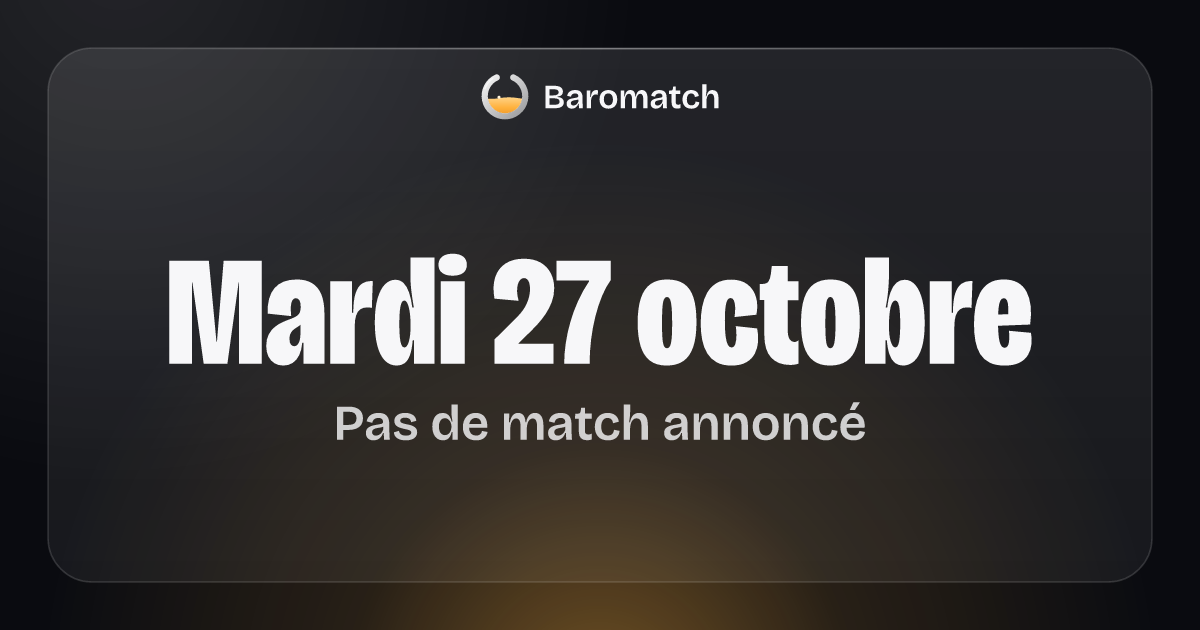
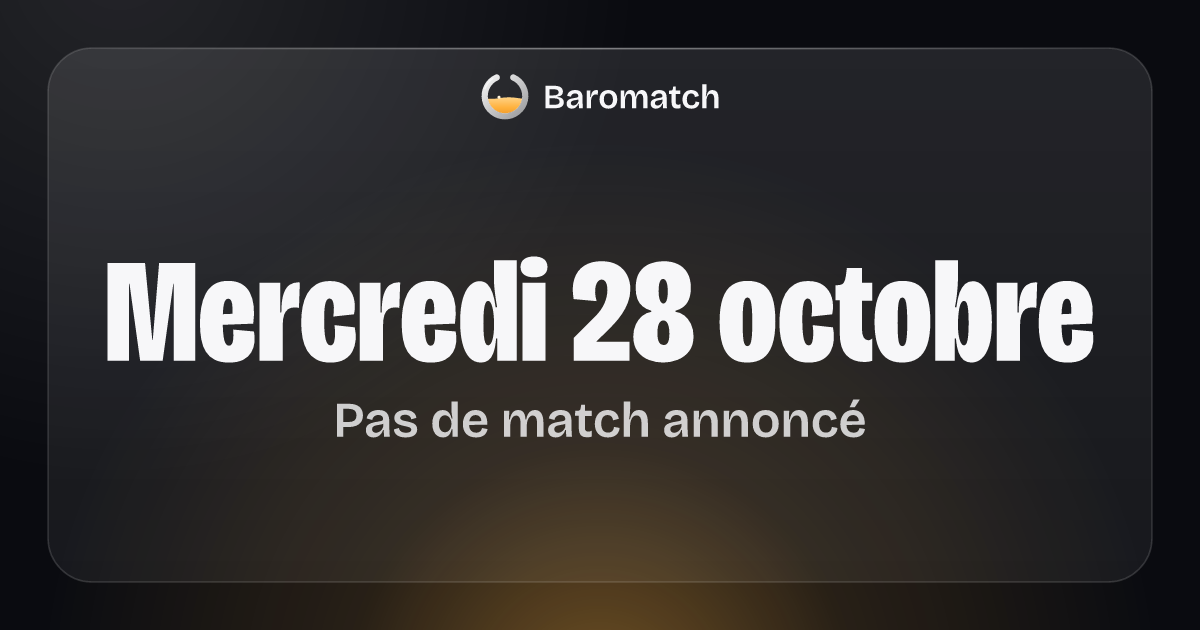
Pages des matchs : mise à jour du 28/10/2026 à 02:14

Changed region(s): [[0.0617, 0.3921, 0.925, 0.6032], [0.2775, 0.6333, 0.74, 0.7238]]

diff --git a/matchs/affiche/pour-le-patron/index.html b/matchs/affiche/pour-le-patron/index.html
@@ -86,7 +86,7 @@
       <p class="affiche-appel">Propose ton bar : scanne le code.</p>
       <p class="affiche-appel__suite">Ou écris à contact@baromatch.fr</p>
       <p class="affiche-laissee" aria-hidden="true">Laissée par :<span class="affiche-laissee__trait"></span></p>
-      <p class="affiche-prepare"><svg class="affiche-verre" viewBox="0 0 200 200" aria-hidden="true" focusable="false"><clipPath id="affiche-bol"><circle cx="100" cy="100" r="67"/></clipPath><g clip-path="url(#affiche-bol)"><path d="M-200 108 q35 -6 70 0 t70 0 t70 0 t70 0 t70 0 t70 0 t70 0 t70 0 V215 H-200 Z" fill="#FFB13D"/></g><path d="M68.3 28.7 A78 78 0 1 0 131.7 28.7" fill="none" stroke="#0A0B10" stroke-width="16" stroke-linecap="round"/></svg><span>Feuille préparée sur baromatch.fr, le mardi 27 octobre.</span></p>
+      <p class="affiche-prepare"><svg class="affiche-verre" viewBox="0 0 200 200" aria-hidden="true" focusable="false"><clipPath id="affiche-bol"><circle cx="100" cy="100" r="67"/></clipPath><g clip-path="url(#affiche-bol)"><path d="M-200 108 q35 -6 70 0 t70 0 t70 0 t70 0 t70 0 t70 0 t70 0 t70 0 V215 H-200 Z" fill="#FFB13D"/></g><path d="M68.3 28.7 A78 78 0 1 0 131.7 28.7" fill="none" stroke="#0A0B10" stroke-width="16" stroke-linecap="round"/></svg><span>Feuille préparée sur baromatch.fr, le mercredi 28 octobre.</span></p>
     </div>
     <figure class="affiche-qr">
       <svg class="affiche-qr__code" viewBox="0 0 41 41" role="img" aria-label="QR code vers la page des bars de baromatch.fr, au formulaire pour proposer un bar" shape-rendering="crispEdges"><rect width="41" height="41" fill="#FFFFFF"/><path d="M4 4h7v1h-7zM12 4h1v1h-1zM15 4h1v1h-1zM18 4h2v1h-2zM21 4h1v1h-1zM25 4h1v1h-1zM27 4h1v1h-1zM30 4h7v1h-7zM4 5h1v1h-1zM10 5h1v1h-1zM20 5h2v1h-2zM23 5h1v1h-1zM25 5h2v1h-2zM30 5h1v1h-1zM36 5h1v1h-1zM4 6h1v1h-1zM6 6h3v1h-3zM10 6h1v1h-1zM13 6h2v1h-2zM17 6h1v1h-1zM20 6h1v1h-1zM23 6h3v1h-3zM27 6h2v1h-2zM30 6h1v1h-1zM32 6h3v1h-3zM36 6h1v1h-1zM4 7h1v1h-1zM6 7h3v1h-3zM10 7h1v1h-1zM12 7h1v1h-1zM14 7h2v1h-2zM18 7h2v1h-2zM21 7h4v1h-4zM30 7h1v1h-1zM32 7h3v1h-3zM36 7h1v1h-1zM4 8h1v1h-1zM6 8h3v1h-3zM10 8h1v1h-1zM12 8h3v1h-3zM16 8h1v1h-1zM18 8h1v1h-1zM22 8h3v1h-3zM26 8h2v1h-2zM30 8h1v1h-1zM32 8h3v1h-3zM36 8h1v1h-1zM4 9h1v1h-1zM10 9h1v1h-1zM12 9h1v1h-1zM17 9h1v1h-1zM20 9h1v1h-1zM22 9h2v1h-2zM28 9h1v1h-1zM30 9h1v1h-1zM36 9h1v1h-1zM4 10h7v1h-7zM12 10h1v1h-1zM14 10h1v1h-1zM16 10h1v1h-1zM18 10h1v1h-1zM20 10h1v1h-1zM22 10h1v1h-1zM24 10h1v1h-1zM26 10h1v1h-1zM28 10h1v1h-1zM30 10h7v1h-7zM12 11h4v1h-4zM18 11h4v1h-4zM25 11h1v1h-1zM27 11h1v1h-1zM4 12h1v1h-1zM8 12h1v1h-1zM10 12h3v1h-3zM14 12h1v1h-1zM16 12h1v1h-1zM20 12h2v1h-2zM23 12h4v1h-4zM28 12h6v1h-6zM36 12h1v1h-1zM5 13h3v1h-3zM9 13h1v1h-1zM12 13h3v1h-3zM17 13h4v1h-4zM22 13h1v1h-1zM24 13h1v1h-1zM26 13h2v1h-2zM29 13h1v1h-1zM33 13h2v1h-2zM5 14h1v1h-1zM7 14h2v1h-2zM10 14h1v1h-1zM19 14h1v1h-1zM21 14h1v1h-1zM26 14h5v1h-5zM33 14h1v1h-1zM35 14h1v1h-1zM4 15h1v1h-1zM6 15h2v1h-2zM14 15h1v1h-1zM18 15h2v1h-2zM21 15h3v1h-3zM25 15h1v1h-1zM28 15h1v1h-1zM36 15h1v1h-1zM4 16h1v1h-1zM10 16h2v1h-2zM15 16h4v1h-4zM22 16h6v1h-6zM29 16h2v1h-2zM32 16h2v1h-2zM35 16h2v1h-2zM5 17h1v1h-1zM7 17h1v1h-1zM9 17h1v1h-1zM11 17h1v1h-1zM14 17h1v1h-1zM17 17h1v1h-1zM20 17h2v1h-2zM23 17h1v1h-1zM27 17h1v1h-1zM29 17h1v1h-1zM31 17h1v1h-1zM34 17h1v1h-1zM5 18h2v1h-2zM8 18h4v1h-4zM16 18h1v1h-1zM18 18h1v1h-1zM20 18h1v1h-1zM22 18h2v1h-2zM25 18h1v1h-1zM27 18h4v1h-4zM32 18h1v1h-1zM34 18h2v1h-2zM4 19h4v1h-4zM13 19h3v1h-3zM18 19h1v1h-1zM21 19h6v1h-6zM28 19h3v1h-3zM33 19h1v1h-1zM4 20h4v1h-4zM10 20h3v1h-3zM14 20h3v1h-3zM19 20h1v1h-1zM21 20h1v1h-1zM25 20h4v1h-4zM30 20h1v1h-1zM32 20h1v1h-1zM35 20h1v1h-1zM5 21h1v1h-1zM7 21h3v1h-3zM11 21h2v1h-2zM16 21h1v1h-1zM18 21h4v1h-4zM27 21h1v1h-1zM29 21h1v1h-1zM33 21h2v1h-2zM5 22h3v1h-3zM10 22h1v1h-1zM14 22h1v1h-1zM16 22h5v1h-5zM22 22h1v1h-1zM25 22h1v1h-1zM27 22h1v1h-1zM31 22h1v1h-1zM33 22h1v1h-1zM35 22h1v1h-1zM6 23h2v1h-2zM9 23h1v1h-1zM11 23h2v1h-2zM14 23h1v1h-1zM18 23h2v1h-2zM23 23h3v1h-3zM29 23h3v1h-3zM35 23h1v1h-1zM6 24h1v1h-1zM10 24h2v1h-2zM13 24h1v1h-1zM15 24h1v1h-1zM19 24h2v1h-2zM23 24h1v1h-1zM25 24h2v1h-2zM28 24h1v1h-1zM30 24h1v1h-1zM32 24h2v1h-2zM35 24h2v1h-2zM4 25h5v1h-5zM11 25h3v1h-3zM18 25h1v1h-1zM22 25h3v1h-3zM26 25h2v1h-2zM31 25h1v1h-1zM33 25h1v1h-1zM35 25h1v1h-1zM6 26h5v1h-5zM12 26h1v1h-1zM14 26h2v1h-2zM19 26h1v1h-1zM21 26h2v1h-2zM24 26h1v1h-1zM26 26h2v1h-2zM31 26h5v1h-5zM8 27h2v1h-2zM12 27h1v1h-1zM18 27h5v1h-5zM25 27h1v1h-1zM30 27h1v1h-1zM32 27h1v1h-1zM4 28h5v1h-5zM10 28h1v1h-1zM14 28h1v1h-1zM16 28h2v1h-2zM21 28h1v1h-1zM23 28h4v1h-4zM28 28h5v1h-5zM35 28h2v1h-2zM12 29h3v1h-3zM16 29h1v1h-1zM18 29h3v1h-3zM27 29h2v1h-2zM32 29h1v1h-1zM34 29h2v1h-2zM4 30h7v1h-7zM12 30h1v1h-1zM15 30h2v1h-2zM19 30h1v1h-1zM21 30h1v1h-1zM26 30h1v1h-1zM28 30h1v1h-1zM30 30h1v1h-1zM32 30h2v1h-2zM35 30h1v1h-1zM4 31h1v1h-1zM10 31h1v1h-1zM16 31h4v1h-4zM21 31h6v1h-6zM28 31h1v1h-1zM32 31h1v1h-1zM36 31h1v1h-1zM4 32h1v1h-1zM6 32h3v1h-3zM10 32h1v1h-1zM12 32h3v1h-3zM17 32h1v1h-1zM19 32h1v1h-1zM22 32h1v1h-1zM24 32h1v1h-1zM28 32h6v1h-6zM35 32h2v1h-2zM4 33h1v1h-1zM6 33h3v1h-3zM10 33h1v1h-1zM14 33h3v1h-3zM20 33h1v1h-1zM23 33h1v1h-1zM25 33h1v1h-1zM27 33h2v1h-2zM30 33h3v1h-3zM4 34h1v1h-1zM6 34h3v1h-3zM10 34h1v1h-1zM13 34h4v1h-4zM20 34h1v1h-1zM23 34h1v1h-1zM25 34h3v1h-3zM30 34h4v1h-4zM4 35h1v1h-1zM10 35h1v1h-1zM14 35h5v1h-5zM21 35h1v1h-1zM23 35h4v1h-4zM28 35h1v1h-1zM4 36h7v1h-7zM12 36h1v1h-1zM14 36h1v1h-1zM16 36h1v1h-1zM18 36h2v1h-2zM21 36h2v1h-2zM24 36h2v1h-2zM27 36h4v1h-4zM33 36h1v1h-1zM36 36h1v1h-1z" fill="#000000"/></svg>
@@ -111,7 +111,7 @@
       <p class="affiche-appel">Propose ton bar : scanne le code.</p>
       <p class="affiche-appel__suite">Ou écris à contact@baromatch.fr</p>
       <p class="affiche-laissee" aria-hidden="true">Laissée par :<span class="affiche-laissee__trait"></span></p>
-      <p class="affiche-prepare"><svg class="affiche-verre" viewBox="0 0 200 200" aria-hidden="true" focusable="false"><clipPath id="affiche-bol-copie"><circle cx="100" cy="100" r="67"/></clipPath><g clip-path="url(#affiche-bol-copie)"><path d="M-200 108 q35 -6 70 0 t70 0 t70 0 t70 0 t70 0 t70 0 t70 0 t70 0 V215 H-200 Z" fill="#FFB13D"/></g><path d="M68.3 28.7 A78 78 0 1 0 131.7 28.7" fill="none" stroke="#0A0B10" stroke-width="16" stroke-linecap="round"/></svg><span>Feuille préparée sur baromatch.fr, le mardi 27 octobre.</span></p>
+      <p class="affiche-prepare"><svg class="affiche-verre" viewBox="0 0 200 200" aria-hidden="true" focusable="false"><clipPath id="affiche-bol-copie"><circle cx="100" cy="100" r="67"/></clipPath><g clip-path="url(#affiche-bol-copie)"><path d="M-200 108 q35 -6 70 0 t70 0 t70 0 t70 0 t70 0 t70 0 t70 0 t70 0 V215 H-200 Z" fill="#FFB13D"/></g><path d="M68.3 28.7 A78 78 0 1 0 131.7 28.7" fill="none" stroke="#0A0B10" stroke-width="16" stroke-linecap="round"/></svg><span>Feuille préparée sur baromatch.fr, le mercredi 28 octobre.</span></p>
     </div>
     <figure class="affiche-qr">
       <svg class="affiche-qr__code" viewBox="0 0 41 41" role="img" aria-label="QR code vers la page des bars de baromatch.fr, au formulaire pour proposer un bar" shape-rendering="crispEdges"><rect width="41" height="41" fill="#FFFFFF"/><path d="M4 4h7v1h-7zM12 4h1v1h-1zM15 4h1v1h-1zM18 4h2v1h-2zM21 4h1v1h-1zM25 4h1v1h-1zM27 4h1v1h-1zM30 4h7v1h-7zM4 5h1v1h-1zM10 5h1v1h-1zM20 5h2v1h-2zM23 5h1v1h-1zM25 5h2v1h-2zM30 5h1v1h-1zM36 5h1v1h-1zM4 6h1v1h-1zM6 6h3v1h-3zM10 6h1v1h-1zM13 6h2v1h-2zM17 6h1v1h-1zM20 6h1v1h-1zM23 6h3v1h-3zM27 6h2v1h-2zM30 6h1v1h-1zM32 6h3v1h-3zM36 6h1v1h-1zM4 7h1v1h-1zM6 7h3v1h-3zM10 7h1v1h-1zM12 7h1v1h-1zM14 7h2v1h-2zM18 7h2v1h-2zM21 7h4v1h-4zM30 7h1v1h-1zM32 7h3v1h-3zM36 7h1v1h-1zM4 8h1v1h-1zM6 8h3v1h-3zM10 8h1v1h-1zM12 8h3v1h-3zM16 8h1v1h-1zM18 8h1v1h-1zM22 8h3v1h-3zM26 8h2v1h-2zM30 8h1v1h-1zM32 8h3v1h-3zM36 8h1v1h-1zM4 9h1v1h-1zM10 9h1v1h-1zM12 9h1v1h-1zM17 9h1v1h-1zM20 9h1v1h-1zM22 9h2v1h-2zM28 9h1v1h-1zM30 9h1v1h-1zM36 9h1v1h-1zM4 10h7v1h-7zM12 10h1v1h-1zM14 10h1v1h-1zM16 10h1v1h-1zM18 10h1v1h-1zM20 10h1v1h-1zM22 10h1v1h-1zM24 10h1v1h-1zM26 10h1v1h-1zM28 10h1v1h-1zM30 10h7v1h-7zM12 11h4v1h-4zM18 11h4v1h-4zM25 11h1v1h-1zM27 11h1v1h-1zM4 12h1v1h-1zM8 12h1v1h-1zM10 12h3v1h-3zM14 12h1v1h-1zM16 12h1v1h-1zM20 12h2v1h-2zM23 12h4v1h-4zM28 12h6v1h-6zM36 12h1v1h-1zM5 13h3v1h-3zM9 13h1v1h-1zM12 13h3v1h-3zM17 13h4v1h-4zM22 13h1v1h-1zM24 13h1v1h-1zM26 13h2v1h-2zM29 13h1v1h-1zM33 13h2v1h-2zM5 14h1v1h-1zM7 14h2v1h-2zM10 14h1v1h-1zM19 14h1v1h-1zM21 14h1v1h-1zM26 14h5v1h-5zM33 14h1v1h-1zM35 14h1v1h-1zM4 15h1v1h-1zM6 15h2v1h-2zM14 15h1v1h-1zM18 15h2v1h-2zM21 15h3v1h-3zM25 15h1v1h-1zM28 15h1v1h-1zM36 15h1v1h-1zM4 16h1v1h-1zM10 16h2v1h-2zM15 16h4v1h-4zM22 16h6v1h-6zM29 16h2v1h-2zM32 16h2v1h-2zM35 16h2v1h-2zM5 17h1v1h-1zM7 17h1v1h-1zM9 17h1v1h-1zM11 17h1v1h-1zM14 17h1v1h-1zM17 17h1v1h-1zM20 17h2v1h-2zM23 17h1v1h-1zM27 17h1v1h-1zM29 17h1v1h-1zM31 17h1v1h-1zM34 17h1v1h-1zM5 18h2v1h-2zM8 18h4v1h-4zM16 18h1v1h-1zM18 18h1v1h-1zM20 18h1v1h-1zM22 18h2v1h-2zM25 18h1v1h-1zM27 18h4v1h-4zM32 18h1v1h-1zM34 18h2v1h-2zM4 19h4v1h-4zM13 19h3v1h-3zM18 19h1v1h-1zM21 19h6v1h-6zM28 19h3v1h-3zM33 19h1v1h-1zM4 20h4v1h-4zM10 20h3v1h-3zM14 20h3v1h-3zM19 20h1v1h-1zM21 20h1v1h-1zM25 20h4v1h-4zM30 20h1v1h-1zM32 20h1v1h-1zM35 20h1v1h-1zM5 21h1v1h-1zM7 21h3v1h-3zM11 21h2v1h-2zM16 21h1v1h-1zM18 21h4v1h-4zM27 21h1v1h-1zM29 21h1v1h-1zM33 21h2v1h-2zM5 22h3v1h-3zM10 22h1v1h-1zM14 22h1v1h-1zM16 22h5v1h-5zM22 22h1v1h-1zM25 22h1v1h-1zM27 22h1v1h-1zM31 22h1v1h-1zM33 22h1v1h-1zM35 22h1v1h-1zM6 23h2v1h-2zM9 23h1v1h-1zM11 23h2v1h-2zM14 23h1v1h-1zM18 23h2v1h-2zM23 23h3v1h-3zM29 23h3v1h-3zM35 23h1v1h-1zM6 24h1v1h-1zM10 24h2v1h-2zM13 24h1v1h-1zM15 24h1v1h-1zM19 24h2v1h-2zM23 24h1v1h-1zM25 24h2v1h-2zM28 24h1v1h-1zM30 24h1v1h-1zM32 24h2v1h-2zM35 24h2v1h-2zM4 25h5v1h-5zM11 25h3v1h-3zM18 25h1v1h-1zM22 25h3v1h-3zM26 25h2v1h-2zM31 25h1v1h-1zM33 25h1v1h-1zM35 25h1v1h-1zM6 26h5v1h-5zM12 26h1v1h-1zM14 26h2v1h-2zM19 26h1v1h-1zM21 26h2v1h-2zM24 26h1v1h-1zM26 26h2v1h-2zM31 26h5v1h-5zM8 27h2v1h-2zM12 27h1v1h-1zM18 27h5v1h-5zM25 27h1v1h-1zM30 27h1v1h-1zM32 27h1v1h-1zM4 28h5v1h-5zM10 28h1v1h-1zM14 28h1v1h-1zM16 28h2v1h-2zM21 28h1v1h-1zM23 28h4v1h-4zM28 28h5v1h-5zM35 28h2v1h-2zM12 29h3v1h-3zM16 29h1v1h-1zM18 29h3v1h-3zM27 29h2v1h-2zM32 29h1v1h-1zM34 29h2v1h-2zM4 30h7v1h-7zM12 30h1v1h-1zM15 30h2v1h-2zM19 30h1v1h-1zM21 30h1v1h-1zM26 30h1v1h-1zM28 30h1v1h-1zM30 30h1v1h-1zM32 30h2v1h-2zM35 30h1v1h-1zM4 31h1v1h-1zM10 31h1v1h-1zM16 31h4v1h-4zM21 31h6v1h-6zM28 31h1v1h-1zM32 31h1v1h-1zM36 31h1v1h-1zM4 32h1v1h-1zM6 32h3v1h-3zM10 32h1v1h-1zM12 32h3v1h-3zM17 32h1v1h-1zM19 32h1v1h-1zM22 32h1v1h-1zM24 32h1v1h-1zM28 32h6v1h-6zM35 32h2v1h-2zM4 33h1v1h-1zM6 33h3v1h-3zM10 33h1v1h-1zM14 33h3v1h-3zM20 33h1v1h-1zM23 33h1v1h-1zM25 33h1v1h-1zM27 33h2v1h-2zM30 33h3v1h-3zM4 34h1v1h-1zM6 34h3v1h-3zM10 34h1v1h-1zM13 34h4v1h-4zM20 34h1v1h-1zM23 34h1v1h-1zM25 34h3v1h-3zM30 34h4v1h-4zM4 35h1v1h-1zM10 35h1v1h-1zM14 35h5v1h-5zM21 35h1v1h-1zM23 35h4v1h-4zM28 35h1v1h-1zM4 36h7v1h-7zM12 36h1v1h-1zM14 36h1v1h-1zM16 36h1v1h-1zM18 36h2v1h-2zM21 36h2v1h-2zM24 36h2v1h-2zM27 36h4v1h-4zM33 36h1v1h-1zM36 36h1v1h-1z" fill="#000000"/></svg>

diff --git a/ce-soir/index.html b/ce-soir/index.html
@@ -6,8 +6,8 @@
 <!-- Page écrite par le générateur des pages des matchs (dossier generateur du dépôt), à chaque passage : une retouche
      à la main serait effacée au suivant. Aucun script écrit dans la page : seulement les fichiers du site. -->
 <meta http-equiv="Content-Security-Policy" content="default-src 'self'; script-src 'self'; style-src 'self'; img-src 'self' data:; font-src 'self'; connect-src 'self'; base-uri 'none'; object-src 'none'; form-action https://formspree.io">
-<title>Où regarder le match ce soir, mardi 27 octobre — Baromatch</title>
-<meta name="description" content="Mardi 27 octobre : pas de match annoncé ce soir. Les prochains, à l’heure de Paris, et les villes, sur Baromatch.">
+<title>Où regarder le match ce soir, mercredi 28 octobre</title>
+<meta name="description" content="Mercredi 28 octobre : pas de match annoncé ce soir. Les prochains, à l’heure de Paris, et les villes, sur Baromatch.">
 <meta name="robots" content="noindex">
 <link rel="canonical" href="https://baromatch.fr/ce-soir/">
 <meta name="theme-color" content="#0A0B10">
@@ -20,18 +20,18 @@
 <meta property="og:type" content="website">
 <meta property="og:locale" content="fr_FR">
 <meta property="og:site_name" content="Baromatch">
-<meta property="og:title" content="Où regarder le match ce soir, mardi 27 octobre — Baromatch">
-<meta property="og:description" content="Mardi 27 octobre : pas de match annoncé ce soir. Les prochains, à l’heure de Paris, et les villes, sur Baromatch.">
+<meta property="og:title" content="Où regarder le match ce soir, mercredi 28 octobre">
+<meta property="og:description" content="Mercredi 28 octobre : pas de match annoncé ce soir. Les prochains, à l’heure de Paris, et les villes, sur Baromatch.">
 <meta property="og:url" content="https://baromatch.fr/ce-soir/">
-<meta property="og:image" content="https://baromatch.fr/ce-soir/partage.png?v=aM6gxo-dOn">
+<meta property="og:image" content="https://baromatch.fr/ce-soir/partage.png?v=FGZJ2M5diq">
 <meta property="og:image:width" content="1200">
 <meta property="og:image:height" content="630">
-<meta property="og:image:alt" content="Mardi 27 octobre. Pas de match annoncé.">
+<meta property="og:image:alt" content="Mercredi 28 octobre. Pas de match annoncé.">
 <meta name="twitter:card" content="summary_large_image">
 <meta name="twitter:site" content="@baromatchapp">
-<meta name="twitter:image" content="https://baromatch.fr/ce-soir/partage.png?v=aM6gxo-dOn">
+<meta name="twitter:image" content="https://baromatch.fr/ce-soir/partage.png?v=FGZJ2M5diq">
 <script src="/partage.js" defer></script>
-<script type="application/ld+json">{"@context":"https://schema.org","@graph":[{"@type":"CollectionPage","@id":"https://baromatch.fr/ce-soir/","url":"https://baromatch.fr/ce-soir/","name":"Où regarder le match ce soir, mardi 27 octobre — Baromatch","description":"Mardi 27 octobre : pas de match annoncé ce soir. Les prochains, à l’heure de Paris, et les villes, sur Baromatch.","inLanguage":"fr-FR","isPartOf":{"@id":"https://baromatch.fr/#site"},"publisher":{"@id":"https://baromatch.fr/#organisation"}},{"@type":"BreadcrumbList","itemListElement":[{"@type":"ListItem","position":1,"name":"Accueil","item":"https://baromatch.fr/"},{"@type":"ListItem","position":2,"name":"Ce soir","item":"https://baromatch.fr/ce-soir/"}]},{"@type":"ItemList","name":"Les prochains matchs","numberOfItems":8,"itemListElement":[{"@type":"ListItem","position":1,"name":"Fiorentina – Atalanta","url":"https://baromatch.fr/matchs/fiorentina-atalanta-2026-10-29/"},{"@type":"ListItem","position":2,"name":"Le Havre – PSG","url":"https://baromatch.fr/matchs/le-havre-psg-2026-10-30/"},{"@type":"ListItem","position":3,"name":"Lille – Lens","url":"https://baromatch.fr/matchs/lille-lens-2026-10-30/"},{"@type":"ListItem","position":4,"name":"Chelsea – Man United","url":"https://baromatch.fr/matchs/chelsea-man-united-2026-10-31/"},{"@type":"ListItem","position":5,"name":"Levante – Atlético","url":"https://baromatch.fr/matchs/levante-atletico-2026-10-31/"},{"@type":"ListItem","position":6,"name":"Leverkusen – Stuttgart","url":"https://baromatch.fr/matchs/leverkusen-stuttgart-2026-10-31/"},{"@type":"ListItem","position":7,"name":"Nice – Rennes","url":"https://baromatch.fr/matchs/nice-rennes-2026-10-31/"},{"@type":"ListItem","position":8,"name":"Bayern – Dortmund","url":"https://baromatch.fr/matchs/bayern-dortmund-2026-10-31/"}]}]}</script>
+<script type="application/ld+json">{"@context":"https://schema.org","@graph":[{"@type":"CollectionPage","@id":"https://baromatch.fr/ce-soir/","url":"https://baromatch.fr/ce-soir/","name":"Où regarder le match ce soir, mercredi 28 octobre","description":"Mercredi 28 octobre : pas de match annoncé ce soir. Les prochains, à l’heure de Paris, et les villes, sur Baromatch.","inLanguage":"fr-FR","isPartOf":{"@id":"https://baromatch.fr/#site"},"publisher":{"@id":"https://baromatch.fr/#organisation"}},{"@type":"BreadcrumbList","itemListElement":[{"@type":"ListItem","position":1,"name":"Accueil","item":"https://baromatch.fr/"},{"@type":"ListItem","position":2,"name":"Ce soir","item":"https://baromatch.fr/ce-soir/"}]},{"@type":"ItemList","name":"Les prochains matchs","numberOfItems":8,"itemListElement":[{"@type":"ListItem","position":1,"name":"Fiorentina – Atalanta","url":"https://baromatch.fr/matchs/fiorentina-atalanta-2026-10-29/"},{"@type":"ListItem","position":2,"name":"Le Havre – PSG","url":"https://baromatch.fr/matchs/le-havre-psg-2026-10-30/"},{"@type":"ListItem","position":3,"name":"Lille – Lens","url":"https://baromatch.fr/matchs/lille-lens-2026-10-30/"},{"@type":"ListItem","position":4,"name":"Chelsea – Man United","url":"https://baromatch.fr/matchs/chelsea-man-united-2026-10-31/"},{"@type":"ListItem","position":5,"name":"Levante – Atlético","url":"https://baromatch.fr/matchs/levante-atletico-2026-10-31/"},{"@type":"ListItem","position":6,"name":"Leverkusen – Stuttgart","url":"https://baromatch.fr/matchs/leverkusen-stuttgart-2026-10-31/"},{"@type":"ListItem","position":7,"name":"Nice – Rennes","url":"https://baromatch.fr/matchs/nice-rennes-2026-10-31/"},{"@type":"ListItem","position":8,"name":"Bayern – Dortmund","url":"https://baromatch.fr/matchs/bayern-dortmund-2026-10-31/"}]}]}</script>
 </head>
 <body>
 <a class="lien-evitement" href="#contenu">Aller au contenu</a>
@@ -49,12 +49,12 @@
 </nav>
 <header class="regarder-tete">
   <h1 class="regarder-titre">Où regarder le match ce soir</h1>
-  <p class="regarder-quand">Mardi 27 octobre</p>
+  <p class="regarder-quand">Mercredi 28 octobre</p>
   <p class="regarder-chapeau">Les matchs du jour, à l’heure de Paris. Dès qu’un bar annonce un de ces matchs sur Baromatch, il s’affiche ici.</p>
 </header>
-<div class="partage" role="group" aria-label="Partager la page" data-titre="Où regarder le match ce soir, mardi 27 octobre — Baromatch" data-adresse="https://baromatch.fr/ce-soir/" data-copie="Lien copié." data-echec="Copie impossible : appuie longtemps sur le lien pour le copier.">
+<div class="partage" role="group" aria-label="Partager la page" data-titre="Où regarder le match ce soir, mercredi 28 octobre" data-adresse="https://baromatch.fr/ce-soir/" data-copie="Lien copié." data-echec="Copie impossible : appuie longtemps sur le lien pour le copier.">
   <button class="partage__bouton partage__natif" type="button" hidden>Partager</button>
-  <a class="partage__bouton partage__whatsapp" href="https://wa.me/?text=O%C3%B9%20regarder%20le%20match%20ce%20soir%2C%20mardi%2027%20octobre%20%E2%80%94%20Baromatch%20https%3A%2F%2Fbaromatch.fr%2Fce-soir%2F" rel="noopener">Envoyer sur WhatsApp</a>
+  <a class="partage__bouton partage__whatsapp" href="https://wa.me/?text=O%C3%B9%20regarder%20le%20match%20ce%20soir%2C%20mercredi%2028%20octobre%20https%3A%2F%2Fbaromatch.fr%2Fce-soir%2F" rel="noopener">Envoyer sur WhatsApp</a>
   <button class="partage__bouton partage__copier" type="button" hidden>Copier le lien</button>
   <a class="partage__lien" href="https://baromatch.fr/ce-soir/">baromatch.fr/ce-soir/</a>
   <p class="partage__statut" role="status" aria-live="polite"></p>

diff --git a/matchs/affiche/index.html b/matchs/affiche/index.html
@@ -24,13 +24,13 @@
 <meta property="og:title" content="Affiche des matchs de foot de la semaine pour ton bar">
 <meta property="og:description" content="Les matchs des sept prochains jours, à l’heure de Paris : coche ceux que tu diffuses et imprime ton affiche en A4 ou en A3. Gratuit, sans compte.">
 <meta property="og:url" content="https://baromatch.fr/matchs/affiche/">
-<meta property="og:image" content="https://baromatch.fr/matchs/affiche/partage.png?v=apwqrIk-_R">
+<meta property="og:image" content="https://baromatch.fr/matchs/affiche/partage.png?v=poF7Ia_EGC">
 <meta property="og:image:width" content="1200">
 <meta property="og:image:height" content="630">
-<meta property="og:image:alt" content="L’affiche des matchs de la semaine, du mardi 27 octobre au lundi 2 novembre. Gratuite, à imprimer.">
+<meta property="og:image:alt" content="L’affiche des matchs de la semaine, du mercredi 28 octobre au mardi 3 novembre. Gratuite, à imprimer.">
 <meta name="twitter:card" content="summary_large_image">
 <meta name="twitter:site" content="@baromatchapp">
-<meta name="twitter:image" content="https://baromatch.fr/matchs/affiche/partage.png?v=apwqrIk-_R">
+<meta name="twitter:image" content="https://baromatch.fr/matchs/affiche/partage.png?v=poF7Ia_EGC">
 <script type="application/ld+json">{"@context":"https://schema.org","@graph":[{"@type":"WebPage","@id":"https://baromatch.fr/matchs/affiche/","url":"https://baromatch.fr/matchs/affiche/","name":"Affiche des matchs de foot de la semaine pour ton bar","description":"Les matchs des sept prochains jours, à l’heure de Paris : coche ceux que tu diffuses et imprime ton affiche en A4 ou en A3. Gratuit, sans compte.","inLanguage":"fr-FR","isPartOf":{"@id":"https://baromatch.fr/#site"},"publisher":{"@id":"https://baromatch.fr/#organisation"}},{"@type":"BreadcrumbList","itemListElement":[{"@type":"ListItem","position":1,"name":"Accueil","item":"https://baromatch.fr/"},{"@type":"ListItem","position":2,"name":"Les matchs de la semaine","item":"https://baromatch.fr/matchs/"},{"@type":"ListItem","position":3,"name":"L’affiche de la semaine","item":"https://baromatch.fr/matchs/affiche/"}]}]}</script>
 </head>
 <body>
@@ -71,7 +71,7 @@
   <div class="affiche">
   <div class="affiche-tete">
     <h3 class="affiche-titre">Les matchs ici</h3>
-    <p class="affiche-dates">Du mardi 27 octobre au lundi 2 novembre</p>
+    <p class="affiche-dates">Du mercredi 28 octobre au mardi 3 novembre</p>
   </div>
   <section class="affiche-jour" aria-labelledby="jour-2026-10-29">
     <h4 class="affiche-jour__nom" id="jour-2026-10-29"><time datetime="2026-10-29">Jeudi 29</time></h4>
@@ -117,11 +117,18 @@
       <li class="affiche-ligne"><input class="affiche-case" type="checkbox" id="affiche-newcastle-everton-2026-11-02" aria-describedby="jour-2026-11-02"><label class="affiche-ligne__texte" for="affiche-newcastle-everton-2026-11-02"><time class="affiche-heure" datetime="2026-11-02T21:00:00+01:00">21:00</time> <span class="affiche-match">Newcastle – Everton</span> <span class="affiche-competition">Premier League</span></label></li>
     </ul>
   </section>
+  <section class="affiche-jour" aria-labelledby="jour-2026-11-03">
+    <h4 class="affiche-jour__nom" id="jour-2026-11-03"><time datetime="2026-11-03">Mardi 3</time></h4>
+    <ul class="affiche-lignes">
+      <li class="affiche-ligne"><input class="affiche-case" type="checkbox" id="affiche-bodo-glimt-lille-2026-11-03" aria-describedby="jour-2026-11-03"><label class="affiche-ligne__texte" for="affiche-bodo-glimt-lille-2026-11-03"><time class="affiche-heure" datetime="2026-11-03T21:00:00+01:00">21:00</time> <span class="affiche-match">Bodø/Glimt – Lille</span> <span class="affiche-competition">Ligue des champions</span></label></li>
+      <li class="affiche-ligne"><input class="affiche-case" type="checkbox" id="affiche-villarreal-psg-2026-11-03" aria-describedby="jour-2026-11-03"><label class="affiche-ligne__texte" for="affiche-villarreal-psg-2026-11-03"><time class="affiche-heure" datetime="2026-11-03T21:00:00+01:00">21:00</time> <span class="affiche-match">Villarreal – PSG</span> <span class="affiche-competition">Ligue des champions</span></label></li>
+    </ul>
+  </section>
   <div class="affiche-pied">
     <div class="affiche-pied__texte">
       <p class="affiche-stylo" aria-hidden="true">À compléter au stylo</p>
       <ul class="affiche-blanc" aria-hidden="true"><li></li><li></li></ul>
-      <p class="affiche-prepare"><svg class="affiche-verre" viewBox="0 0 200 200" aria-hidden="true" focusable="false"><clipPath id="affiche-bol"><circle cx="100" cy="100" r="67"/></clipPath><g clip-path="url(#affiche-bol)"><path d="M-200 108 q35 -6 70 0 t70 0 t70 0 t70 0 t70 0 t70 0 t70 0 t70 0 V215 H-200 Z" fill="#FFB13D"/></g><path d="M68.3 28.7 A78 78 0 1 0 131.7 28.7" fill="none" stroke="#0A0B10" stroke-width="16" stroke-linecap="round"/></svg><span>Programme préparé sur baromatch.fr, à l’heure de Paris, le mardi 27 octobre.</span></p>
+      <p class="affiche-prepare"><svg class="affiche-verre" viewBox="0 0 200 200" aria-hidden="true" focusable="false"><clipPath id="affiche-bol"><circle cx="100" cy="100" r="67"/></clipPath><g clip-path="url(#affiche-bol)"><path d="M-200 108 q35 -6 70 0 t70 0 t70 0 t70 0 t70 0 t70 0 t70 0 t70 0 V215 H-200 Z" fill="#FFB13D"/></g><path d="M68.3 28.7 A78 78 0 1 0 131.7 28.7" fill="none" stroke="#0A0B10" stroke-width="16" stroke-linecap="round"/></svg><span>Programme préparé sur baromatch.fr, à l’heure de Paris, le mercredi 28 octobre.</span></p>
     </div>
     <figure class="affiche-qr">
       <svg class="affiche-qr__code" viewBox="0 0 33 33" role="img" aria-label="QR code vers baromatch.fr" shape-rendering="crispEdges"><rect width="33" height="33" fill="#FFFFFF"/><path d="M4 4h7v1h-7zM13 4h3v1h-3zM18 4h1v1h-1zM20 4h1v1h-1zM22 4h7v1h-7zM4 5h1v1h-1zM10 5h1v1h-1zM12 5h1v1h-1zM14 5h1v1h-1zM16 5h3v1h-3zM22 5h1v1h-1zM28 5h1v1h-1zM4 6h1v1h-1zM6 6h3v1h-3zM10 6h1v1h-1zM12 6h2v1h-2zM16 6h1v1h-1zM19 6h1v1h-1zM22 6h1v1h-1zM24 6h3v1h-3zM28 6h1v1h-1zM4 7h1v1h-1zM6 7h3v1h-3zM10 7h1v1h-1zM12 7h6v1h-6zM19 7h2v1h-2zM22 7h1v1h-1zM24 7h3v1h-3zM28 7h1v1h-1zM4 8h1v1h-1zM6 8h3v1h-3zM10 8h1v1h-1zM13 8h1v1h-1zM15 8h1v1h-1zM20 8h1v1h-1zM22 8h1v1h-1zM24 8h3v1h-3zM28 8h1v1h-1zM4 9h1v1h-1zM10 9h1v1h-1zM17 9h2v1h-2zM20 9h1v1h-1zM22 9h1v1h-1zM28 9h1v1h-1zM4 10h7v1h-7zM12 10h1v1h-1zM14 10h1v1h-1zM16 10h1v1h-1zM18 10h1v1h-1zM20 10h1v1h-1zM22 10h7v1h-7zM12 11h1v1h-1zM16 11h1v1h-1zM19 11h1v1h-1zM4 12h1v1h-1zM10 12h1v1h-1zM12 12h1v1h-1zM15 12h1v1h-1zM17 12h3v1h-3zM21 12h2v1h-2zM25 12h3v1h-3zM5 13h4v1h-4zM16 13h1v1h-1zM19 13h1v1h-1zM23 13h5v1h-5zM4 14h3v1h-3zM10 14h1v1h-1zM12 14h2v1h-2zM16 14h2v1h-2zM19 14h1v1h-1zM22 14h1v1h-1zM24 14h2v1h-2zM27 14h2v1h-2zM5 15h2v1h-2zM8 15h2v1h-2zM11 15h1v1h-1zM15 15h1v1h-1zM20 15h3v1h-3zM25 15h1v1h-1zM28 15h1v1h-1zM6 16h2v1h-2zM9 16h3v1h-3zM14 16h1v1h-1zM16 16h1v1h-1zM18 16h2v1h-2zM22 16h2v1h-2zM28 16h1v1h-1zM4 17h1v1h-1zM6 17h4v1h-4zM11 17h1v1h-1zM13 17h2v1h-2zM17 17h1v1h-1zM19 17h3v1h-3zM23 17h1v1h-1zM27 17h1v1h-1zM4 18h1v1h-1zM10 18h1v1h-1zM12 18h2v1h-2zM15 18h6v1h-6zM22 18h4v1h-4zM27 18h2v1h-2zM4 19h1v1h-1zM6 19h3v1h-3zM11 19h2v1h-2zM14 19h2v1h-2zM20 19h1v1h-1zM23 19h1v1h-1zM25 19h2v1h-2zM28 19h1v1h-1zM4 20h1v1h-1zM7 20h1v1h-1zM10 20h2v1h-2zM13 20h1v1h-1zM15 20h1v1h-1zM19 20h6v1h-6zM26 20h1v1h-1zM12 21h1v1h-1zM16 21h2v1h-2zM20 21h1v1h-1zM24 21h1v1h-1zM4 22h7v1h-7zM14 22h2v1h-2zM20 22h1v1h-1zM22 22h1v1h-1zM24 22h1v1h-1zM28 22h1v1h-1zM4 23h1v1h-1zM10 23h1v1h-1zM13 23h1v1h-1zM16 23h2v1h-2zM19 23h2v1h-2zM24 23h1v1h-1zM27 23h2v1h-2zM4 24h1v1h-1zM6 24h3v1h-3zM10 24h1v1h-1zM14 24h1v1h-1zM16 24h1v1h-1zM18 24h7v1h-7zM26 24h3v1h-3zM4 25h1v1h-1zM6 25h3v1h-3zM10 25h1v1h-1zM13 25h1v1h-1zM18 25h5v1h-5zM27 25h2v1h-2zM4 26h1v1h-1zM6 26h3v1h-3zM10 26h1v1h-1zM13 26h4v1h-4zM20 26h1v1h-1zM25 26h2v1h-2zM28 26h1v1h-1zM4 27h1v1h-1zM10 27h1v1h-1zM13 27h3v1h-3zM18 27h1v1h-1zM20 27h2v1h-2zM23 27h2v1h-2zM28 27h1v1h-1zM4 28h7v1h-7zM12 28h3v1h-3zM17 28h2v1h-2zM20 28h1v1h-1zM25 28h1v1h-1zM28 28h1v1h-1z" fill="#000000"/></svg>

diff --git a/matchs/index.html b/matchs/index.html
@@ -7,7 +7,7 @@
      à la main serait effacée au suivant. Aucun script écrit dans la page : seulement les fichiers du site. -->
 <meta http-equiv="Content-Security-Policy" content="default-src 'self'; script-src 'self'; style-src 'self'; img-src 'self' data:; font-src 'self'; connect-src 'self'; base-uri 'none'; object-src 'none'; form-action https://formspree.io">
 <title>Les matchs de la semaine et où les voir — Baromatch</title>
-<meta name="description" content="19 matchs d’ici lundi 2 novembre, à l’heure de Paris : la compétition et les bars qui diffusent chaque match sur Baromatch.">
+<meta name="description" content="21 matchs d’ici mardi 3 novembre, à l’heure de Paris : la compétition et les bars qui diffusent chaque match sur Baromatch.">
 <meta name="robots" content="noindex">
 <link rel="canonical" href="https://baromatch.fr/matchs/">
 <meta name="theme-color" content="#0A0B10">
@@ -21,7 +21,7 @@
 <meta property="og:locale" content="fr_FR">
 <meta property="og:site_name" content="Baromatch">
 <meta property="og:title" content="Les matchs de la semaine et où les voir — Baromatch">
-<meta property="og:description" content="19 matchs d’ici lundi 2 novembre, à l’heure de Paris : la compétition et les bars qui diffusent chaque match sur Baromatch.">
+<meta property="og:description" content="21 matchs d’ici mardi 3 novembre, à l’heure de Paris : la compétition et les bars qui diffusent chaque match sur Baromatch.">
 <meta property="og:url" content="https://baromatch.fr/matchs/">
 <meta property="og:image" content="https://baromatch.fr/img/og-image.jpg">
 <meta property="og:image:width" content="1200">
@@ -30,7 +30,7 @@
 <meta name="twitter:card" content="summary_large_image">
 <meta name="twitter:site" content="@baromatchapp">
 <meta name="twitter:image" content="https://baromatch.fr/img/og-image.jpg">
-<script type="application/ld+json">{"@context":"https://schema.org","@graph":[{"@type":"CollectionPage","@id":"https://baromatch.fr/matchs/","url":"https://baromatch.fr/matchs/","name":"Les matchs de la semaine et où les voir — Baromatch","description":"19 matchs d’ici lundi 2 novembre, à l’heure de Paris : la compétition et les bars qui diffusent chaque match sur Baromatch.","inLanguage":"fr-FR","isPartOf":{"@id":"https://baromatch.fr/#site"},"publisher":{"@id":"https://baromatch.fr/#organisation"}},{"@type":"BreadcrumbList","itemListElement":[{"@type":"ListItem","position":1,"name":"Accueil","item":"https://baromatch.fr/"},{"@type":"ListItem","position":2,"name":"Les matchs de la semaine","item":"https://baromatch.fr/matchs/"}]}]}</script>
+<script type="application/ld+json">{"@context":"https://schema.org","@graph":[{"@type":"CollectionPage","@id":"https://baromatch.fr/matchs/","url":"https://baromatch.fr/matchs/","name":"Les matchs de la semaine et où les voir — Baromatch","description":"21 matchs d’ici mardi 3 novembre, à l’heure de Paris : la compétition et les bars qui diffusent chaque match sur Baromatch.","inLanguage":"fr-FR","isPartOf":{"@id":"https://baromatch.fr/#site"},"publisher":{"@id":"https://baromatch.fr/#organisation"}},{"@type":"BreadcrumbList","itemListElement":[{"@type":"ListItem","position":1,"name":"Accueil","item":"https://baromatch.fr/"},{"@type":"ListItem","position":2,"name":"Les matchs de la semaine","item":"https://baromatch.fr/matchs/"}]}]}</script>
 </head>
 <body>
 <a class="lien-evitement" href="#contenu">Aller au contenu</a>
@@ -51,8 +51,8 @@
   <p class="regarder-chapeau">Sept jours de foot à l’heure de Paris et, pour chaque match, les bars qui le diffusent sur Baromatch.</p>
 </header>
 <section class="regarder-section regarder-ce-soir" aria-labelledby="titre-ce-soir">
-  <h2 id="titre-ce-soir">Ce soir, mardi 27 octobre</h2>
-  <p>Pas de match annoncé ce soir.</p>
+  <h2 id="titre-ce-soir">Aujourd’hui, mercredi 28 octobre</h2>
+  <p>Pas de match annoncé aujourd’hui.</p>
   <p class="regarder-suite"><a href="/ce-soir/">Où regarder le match ce soir</a></p>
 </section>
 <section class="regarder-section" aria-labelledby="jour-2026-10-29">
@@ -99,11 +99,16 @@
     <li><a class="regarder-matchs__match" href="/matchs/newcastle-everton-2026-11-02/">Newcastle – Everton</a> <span class="regarder-matchs__infos"><time datetime="2026-11-02T21:00:00+01:00">21:00</time> · Premier League · <span class="regarder-compte">Pas encore de bar</span></span></li>
   </ul>
 </section>
+<section class="regarder-section" aria-labelledby="jour-2026-11-03">
+  <h2 id="jour-2026-11-03">Mardi 3 novembre</h2>
+  <ul class="regarder-matchs">
+    <li><a class="regarder-matchs__match" href="/matchs/bodo-glimt-lille-2026-11-03/">Bodø/Glimt – Lille</a> <span class="regarder-matchs__infos"><time datetime="2026-11-03T21:00:00+01:00">21:00</time> · Ligue des champions · <span class="regarder-compte">Pas encore de bar</span></span></li>
+    <li><a class="regarder-matchs__match" href="/matchs/villarreal-psg-2026-11-03/">Villarreal – PSG</a> <span class="regarder-matchs__infos"><time datetime="2026-11-03T21:00:00+01:00">21:00</time> · Ligue des champions · <span class="regarder-compte">Pas encore de bar</span></span></li>
+  </ul>
+</section>
 <section class="regarder-section" aria-labelledby="titre-ensuite">
   <h2 id="titre-ensuite">La semaine d’après</h2>
   <ul class="regarder-matchs">
-    <li><a class="regarder-matchs__match" href="/matchs/bodo-glimt-lille-2026-11-03/">Bodø/Glimt – Lille</a> <span class="regarder-matchs__infos"><time datetime="2026-11-03T21:00:00+01:00">Mardi 3 novembre · 21:00</time> · Ligue des champions · <span class="regarder-compte">Pas encore de bar</span></span></li>
-    <li><a class="regarder-matchs__match" href="/matchs/villarreal-psg-2026-11-03/">Villarreal – PSG</a> <span class="regarder-matchs__infos"><time datetime="2026-11-03T21:00:00+01:00">Mardi 3 novembre · 21:00</time> · Ligue des champions · <span class="regarder-compte">Pas encore de bar</span></span></li>
     <li><a class="regarder-matchs__match" href="/matchs/lens-como-1907-2026-11-04/">Lens – Como 1907</a> <span class="regarder-matchs__infos"><time datetime="2026-11-04T21:00:00+01:00">Mercredi 4 novembre · 21:00</time> · Ligue des champions · <span class="regarder-compte">Pas encore de bar</span></span></li>
     <li><a class="regarder-matchs__match" href="/matchs/real-sociedad-ol-2026-11-05/">Real Sociedad – OL</a> <span class="regarder-matchs__infos"><time datetime="2026-11-05T18:45:00+01:00">Jeudi 5 novembre · 18:45</time> · Ligue Europa · <span class="regarder-compte">Pas encore de bar</span></span></li>
     <li><a class="regarder-matchs__match" href="/matchs/rennes-olympiacos-2026-11-05/">Rennes – Olympiacos</a> <span class="regarder-matchs__infos"><time datetime="2026-11-05T18:45:00+01:00">Jeudi 5 novembre · 18:45</time> · Ligue Europa · <span class="regarder-compte">Pas encore de bar</span></span></li>
